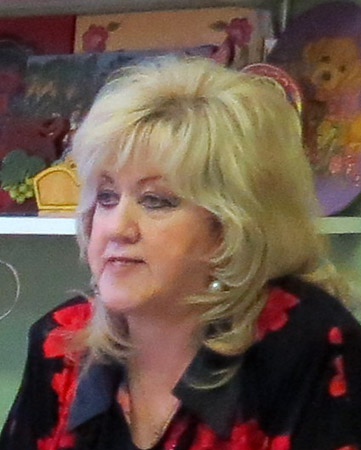
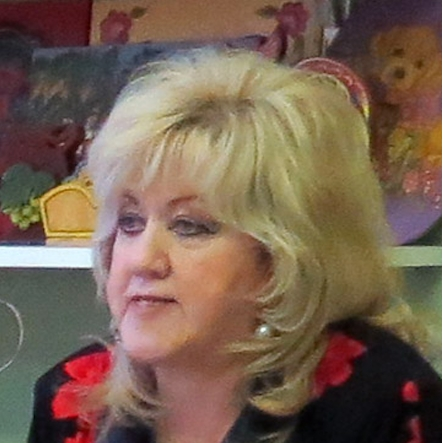
Fix main page, image Shlyapnikova

diff --git a/index.html b/index.html
@@ -120,10 +120,10 @@
                     <h3>Решетников А.Н.</h3>
                 </header>
                 <div class="w3-container brd">
-                    <p>Судомоделирование</p>
+                    <p>Радиоуправляемые модели</p>
                     <hr>
                     <img src="images/reshetnikov.jpg" alt="Avatar" class="w3-left w3-circle w3-margin-right" style="width:80px">
-                    <p>Техническое моделирование</p><br><br>
+                    <p>Техническое моделирование</p><br><br><br>
                 </div>
                 <button class="w3-button w3-block w3-indigo">+ Расписание</button>
             </div>
@@ -178,7 +178,7 @@
                     <div class="w3-container brd">
                         <p>Судомоделирование</p>
                         <hr>
-                        <img src="images/reshetnikov.jpg" alt="Avatar" class="w3-left w3-circle w3-margin-right" style="width:80px">
+                        <img src="images/reshetnikov_v.jpg" alt="Avatar" class="w3-left w3-circle w3-margin-right" style="width:80px">
                         <p>Морские суда</p><br><br><br><br>
                     </div>
                     <button class="w3-button w3-block w3-indigo">+ Расписание</button>
@@ -192,7 +192,7 @@
                     <div class="w3-container brd">
                         <p>Прикладное искусство</p>
                         <hr>
-                        <img src="images/" alt="Avatar" class="w3-left w3-circle w3-margin-right" style="width:80px">
+                        <img src="images/shlyapnikova.jpg" alt="Avatar" class="w3-left w3-circle w3-margin-right" style="width:80px">
                         <p>Ремесло</p><br><br><br><br>
                     </div>
                     <button class="w3-button w3-block w3-indigo">+ Расписание</button>
